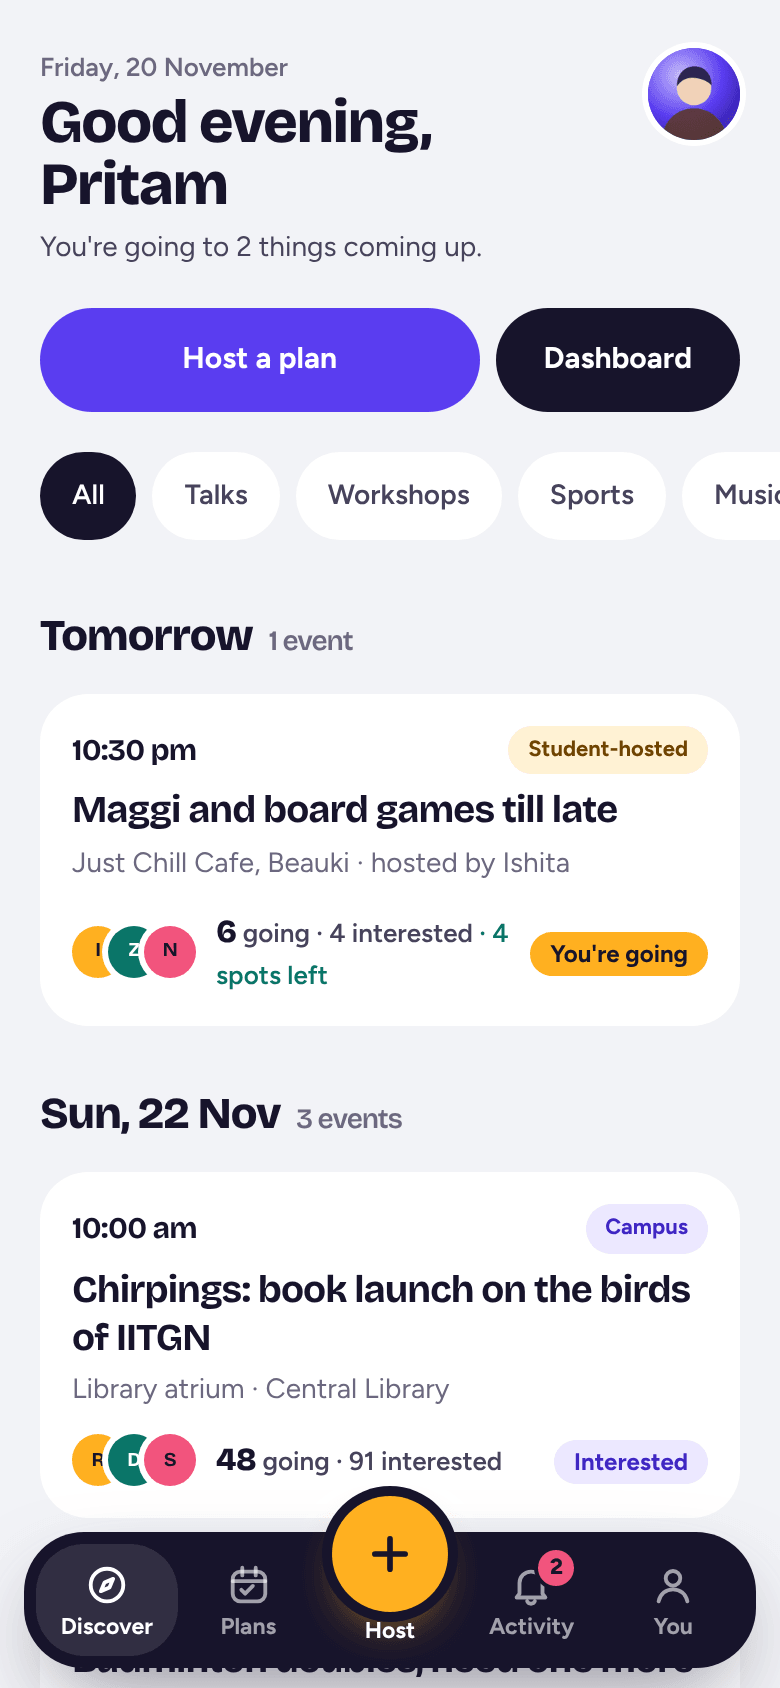
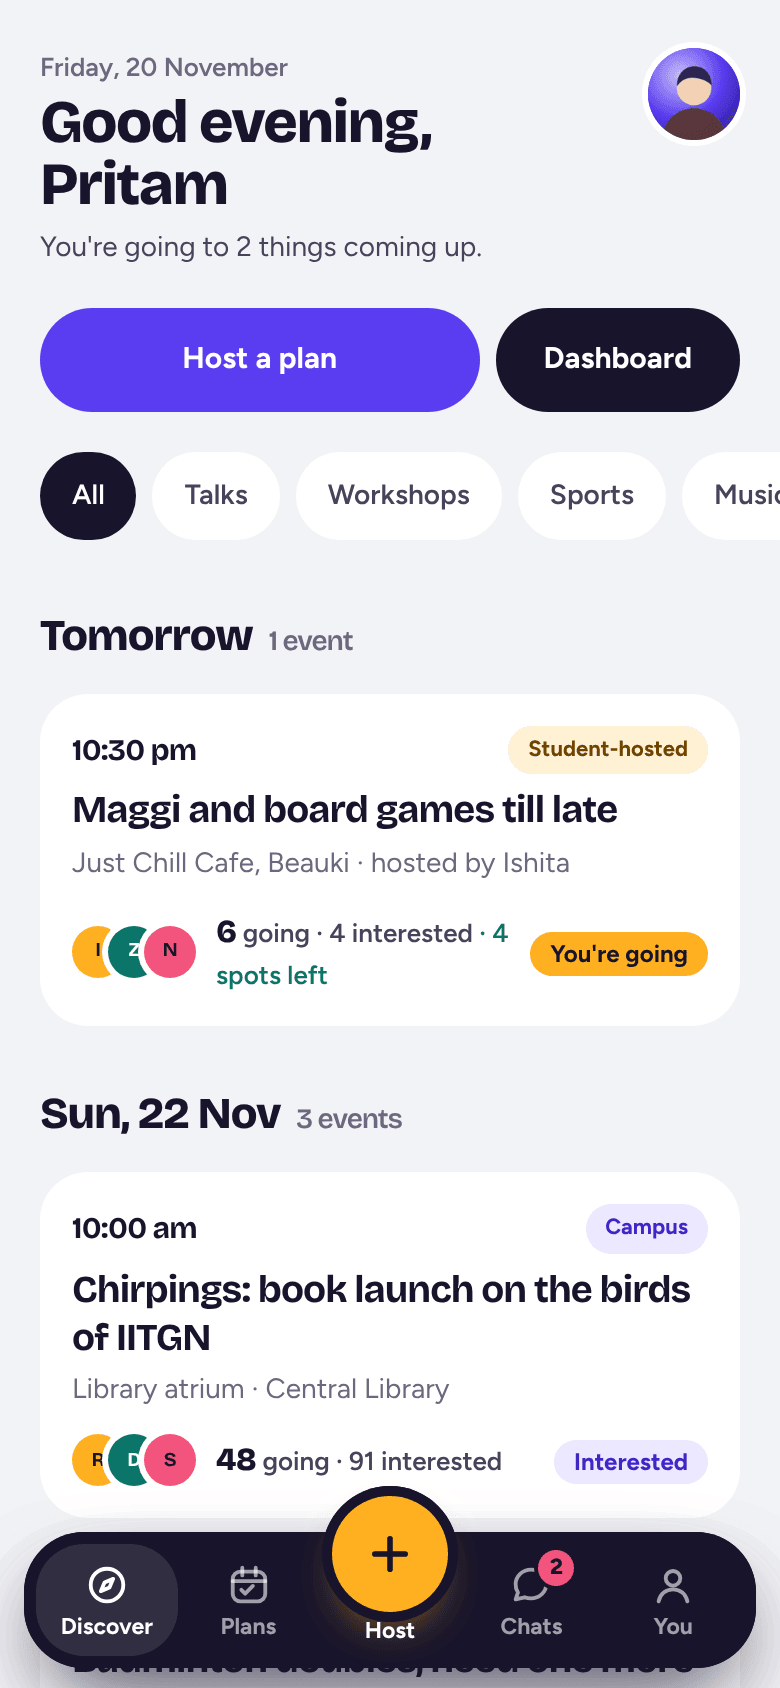
Fence the map to the campus outline and refresh the repo
- The map now follows IITGN's outline instead of a rectangle, leaving
  out Palaj village and the farmland across the road, and draws it.
- The map page highlights Discover in the tab bar.
- New screenshots of Chats, a chat, the live map on real campus streets
  and the Reports queue; the tab bar updated on the rest; new cover.
- README, architecture and security docs updated for speed, chat and the
  map; screenshots compressed to a third of the size.
- A bug report form for testers, with security problems sent privately.

Changed region(s): [[0.0615, 0.9242, 0.9538, 1.0], [0.0308, 0.955, 0.0615, 0.9858]]

diff --git a/tests/db/map.test.ts b/tests/db/map.test.ts
@@ -8,9 +8,11 @@ let ravi: string;
 let meera: string;
 let kabir: string;
 
-// Spots on campus (the Academic Block and the hostels) and off campus (Ahmedabad).
-const ACAD = [23.2135, 72.6858] as const;
-const HOSTEL = [23.2101, 72.6847] as const;
+// Spots on campus (the Academic Block and Duven hostel), in Palaj village
+// next to campus, and in Ahmedabad.
+const ACAD = [23.21456, 72.68571] as const;
+const HOSTEL = [23.21024, 72.6852] as const;
+const VILLAGE = [23.206, 72.68] as const;
 const CITY = [23.0225, 72.5714] as const;
 
 const run = <T = Record<string, unknown>>(who: string, sql: string, params: unknown[] = []) =>
@@ -41,6 +43,8 @@ describe("sharing your spot", () => {
   it("only works on campus", async () => {
     await expect(start(asha, CITY)).rejects.toThrow(/off_campus/);
     await expect(start(asha, [ACAD[0], 72.71])).rejects.toThrow(/off_campus/);
+    // Right next to campus, but outside its outline.
+    await expect(start(asha, VILLAGE)).rejects.toThrow(/off_campus/);
   });
 
   it("only for 15, 30, 60 or 120 minutes, to connections or everyone", async () => {

diff --git a/features/map/campus-map.tsx b/features/map/campus-map.tsx
@@ -64,7 +64,9 @@ export default function CampusMap({ bounds, me, people, selected, onSelect, rece
     L.control.attribution({ prefix: false, position: "topright" }).addAttribution("© OpenStreetMap").addTo(m);
     L.tileLayer(TILE_URL, { maxZoom: 19, detectRetina: true }).addTo(m);
     // The area where sharing works.
-    L.rectangle(area, { color: "#5A3DF0", weight: 1.5, dashArray: "6 6", fill: true, fillOpacity: 0.03, interactive: false }).addTo(m);
+    const outline = { color: "#5A3DF0", weight: 1.5, dashArray: "6 6", fill: true, fillOpacity: 0.03, interactive: false };
+    if (bounds.polygon && bounds.polygon.length >= 3) L.polygon(bounds.polygon, outline).addTo(m);
+    else L.rectangle(area, outline).addTo(m);
     m.on("click", () => onSelectRef.current(null));
     layer.current = L.layerGroup().addTo(m);
     meLayer.current = L.layerGroup().addTo(m);

diff --git a/app/(app)/map/page.tsx b/app/(app)/map/page.tsx
@@ -8,6 +8,9 @@ export default async function MapPage() {
   const { supabase, user } = await requireMember();
   const [{ data: bounds }, { data: sharing }] = await Promise.all([supabase.rpc("map_settings"), supabase.rpc("my_sharing")]);
   const b = bounds as Partial<Bounds> | null;
-  const valid = b && [b.south, b.north, b.west, b.east, b.center_lat, b.center_lng].every((n) => typeof n === "number");
+  const valid =
+    b &&
+    [b.south, b.north, b.west, b.east, b.center_lat, b.center_lng].every((n) => typeof n === "number") &&
+    (b.polygon === undefined || (Array.isArray(b.polygon) && b.polygon.every((p) => Array.isArray(p) && p.length === 2 && p.every((n) => typeof n === "number"))));
   return <MapScreen bounds={valid ? (b as Bounds) : null} initialSharing={(sharing as Sharing | null) ?? null} me={{ id: user.id }} />;
 }

diff --git a/features/map/types.ts b/features/map/types.ts
@@ -1,4 +1,13 @@
-export type Bounds = { south: number; north: number; west: number; east: number; center_lat: number; center_lng: number };
+export type Bounds = {
+  south: number;
+  north: number;
+  west: number;
+  east: number;
+  center_lat: number;
+  center_lng: number;
+  // The campus outline as [lat, lng] points, when set.
+  polygon?: [number, number][];
+};
 
 export type Sharing = { expires_at: string; visibility: "connections" | "campus"; precise: boolean; started_at: string };
 

diff --git a/components/bottom-nav.tsx b/components/bottom-nav.tsx
@@ -9,7 +9,7 @@ const TABS: Tab[] = [
   {
     href: "/discover",
     label: "Discover",
-    match: (p) => p.startsWith("/discover") || p.startsWith("/events"),
+    match: (p) => p.startsWith("/discover") || p.startsWith("/events") || p.startsWith("/map"),
     icon: <><circle cx="12" cy="12" r="8.5" /><path d="M15.2 8.8l-1.9 4.5-4.5 1.9 1.9-4.5z" /></>,
   },
   {

diff --git a/README.md b/README.md
@@ -16,7 +16,7 @@ Every event at IIT Gandhinagar, who's going, and an easy way to go together.
 
 [**Open the app**](https://knot-tau.vercel.app) · [Architecture](docs/ARCHITECTURE.md) · [Security model](docs/SECURITY.md) · [Email feed](docs/EMAIL_FEED.md) · [Engineering rules](docs/ENGINEERING.md)
 
-<img src="docs/hero.png" alt="KNOT on a phone: the event feed, a classmate's profile and the Activity tab" width="100%" />
+<img src="docs/hero.png" alt="KNOT on three phones: the event feed, the live campus map and a chat" width="100%" />
 
 </div>
 
@@ -64,14 +64,21 @@ KNOT turns that inbox into one live feed of what's on, shows how many people are
   </tr>
   <tr>
     <td align="center"><img src="docs/screenshots/plans.png" alt="My plans grouped by day" width="170" /><br /><sub>My plans</sub></td>
-    <td align="center"><img src="docs/screenshots/activity.png" alt="Activity with join requests to review" width="170" /><br /><sub>Activity</sub></td>
     <td align="center"><img src="docs/screenshots/profile.png" alt="A classmate's profile with photo, links and shared interests" width="170" /><br /><sub>Profile</sub></td>
+    <td align="center"><img src="docs/screenshots/chats.png" alt="Chats with a connection request and unread messages" width="170" /><br /><sub>Chats</sub></td>
+    <td align="center"><img src="docs/screenshots/chat.png" alt="A one-to-one chat" width="170" /><br /><sub>Chat</sub></td>
+    <td align="center"><img src="docs/screenshots/map.png" alt="Live campus map with classmates' photos and a wave" width="170" /><br /><sub>Who's around</sub></td>
+  </tr>
+  <tr>
     <td align="center"><img src="docs/screenshots/inbox.png" alt="Dashboard Inbox with a proposed venue change" width="170" /><br /><sub>Inbox</sub></td>
+    <td align="center"><img src="docs/screenshots/reports.png" alt="Reports queue showing a reported chat message" width="170" /><br /><sub>Reports</sub></td>
     <td align="center"><img src="docs/screenshots/dashboard.png" alt="Founder dashboard with a 30-day chart" width="170" /><br /><sub>Dashboard</sub></td>
+    <td></td>
+    <td></td>
   </tr>
 </table>
 
-<sub>Screens shown with sample data.</sub>
+<sub>Screens shown with sample data. Map © OpenStreetMap contributors.</sub>
 
 ## How it's built
 
@@ -80,12 +87,12 @@ flowchart LR
   subgraph Phone["Student's phone"]
     UI["Next.js pages<br/>(React Server Components)"]
   end
-  subgraph Vercel
-    MW["Middleware<br/>session refresh, CSP nonce"]
+  subgraph Vercel["Vercel (Mumbai)"]
+    MW["Middleware<br/>session check, CSP nonce"]
     SA["Server actions<br/>Zod validation"]
     IN["/api/ingest/email<br/>token-authenticated"]
   end
-  subgraph Supabase
+  subgraph Supabase["Supabase (Mumbai)"]
     AUTH["Auth<br/>college email sign-in"]
     FN["Database functions<br/>capacity, approvals, rate limits"]
     DB[("Postgres<br/>row-level security on every table")]
@@ -99,11 +106,13 @@ flowchart LR
   IN --> DB
   UI -. sign-in link .-> AUTH
   DB -. realtime .-> UI
+  UI -. map tiles .-> OSM["OpenStreetMap"]
 ```
 
 - **The database is the security boundary.** Every table has row-level security. Anything with rules that must hold (taking the last spot, letting someone in, admin changes) runs in a Postgres function in one transaction, with the row locked.
 - **Thin server layer.** Server actions validate input with Zod and act as the signed-in student. The service key is used only where a student can't act for themselves: the sign-up check, photo storage, account deletion and the email feed.
 - **Locked-down pages.** A fresh nonce-based Content Security Policy on every request, HSTS, frame blocking and a strict permissions policy. No third-party scripts.
+- **Fast on campus.** The server runs in Mumbai next to the database. Sign-ins are verified locally with the project's public signing key, each page checks the student once, buttons like Going change the moment they're tapped, and every screen has a loading placeholder.
 
 More in [docs/ARCHITECTURE.md](docs/ARCHITECTURE.md).
 
@@ -118,7 +127,7 @@ More in [docs/ARCHITECTURE.md](docs/ARCHITECTURE.md).
 - **Campus mail.** Mail that isn't about an event is discarded on arrival. Email addresses and phone numbers are removed before any mail reaches the AI, and kept text is erased after 30 days.
 - **Admins.** Every admin action is logged in an append-only audit log. The founder can't be suspended or demoted, and only the founder can change another admin.
 
-Every feature was reviewed against these rules by an independent security review before release, and each finding is covered by a test. Full details in [docs/SECURITY.md](docs/SECURITY.md); to report a problem, see [SECURITY.md](SECURITY.md).
+Each of these rules is enforced in the database and covered by a test. Full details in [docs/SECURITY.md](docs/SECURITY.md); to report a problem, see [SECURITY.md](SECURITY.md).
 
 ## Quality
 
@@ -137,6 +146,7 @@ CI runs lint, type checks, all tests, a dependency audit, a production build and
 - **App:** Next.js 15 (App Router, Server Components, Server Actions), React 19, TypeScript, Tailwind CSS 4
 - **Data:** Supabase (Postgres with row-level security, Auth, Storage, Realtime)
 - **AI:** Google Gemini API for reading campus mail, with the Anthropic API as a drop-in alternative
+- **Map:** Leaflet with OpenStreetMap tiles, loaded only on the map page
 - **Images:** sharp, for server-side re-encoding of profile photos
 - **Validation:** Zod
 - **Testing:** Vitest with PGlite for database tests, Playwright with axe-core for browser tests
@@ -147,7 +157,7 @@ CI runs lint, type checks, all tests, a dependency audit, a production build and
 
 ```
 app/
-  (app)/                Signed-in pages: discover, events, host, plans, activity, people, profile, admin
+  (app)/                Signed-in pages: discover, events, host, plans, chats, map, people, profile, admin
   api/ingest/email/     Endpoint the Gmail script posts campus mail to
   avatar/               Auth-checked profile photo route
   welcome/, onboarding/ Welcome tour and first-time profile setup
@@ -202,7 +212,7 @@ To connect campus mail, follow [docs/EMAIL_FEED.md](docs/EMAIL_FEED.md).
 - [x] College email sign-in and onboarding with an interactive tour
 - [x] Event feed, Going and Interested, hosted plans with join requests
 - [x] Founder dashboard with activity stats, moderation and an audit log
-- [x] Profiles with photos and links, My plans, Activity, five-tab navigation
+- [x] Profiles with photos and links, My plans, five-tab navigation
 - [x] Live campus email feed with AI reading and a review Inbox
 - [x] Connection requests and live one-to-one chat between connected students
 - [x] Block and report everywhere, with a Reports queue in the dashboard

diff --git a/docs/SECURITY.md b/docs/SECURITY.md
@@ -44,7 +44,7 @@ Admin rights stop at the institution boundary.
 - **Opt-in, for a set time.** Sharing lasts 15, 30, 60 or 120 minutes and can be stopped at once. Stopping deletes the spot.
 - **You see others only while you share.** Nobody can watch the map without being on it.
 - **Your choice of audience and precision.** Everyone at IITGN, or connections only; an exact spot, or a rough area rounded to about 100 metres inside the database.
-- **Campus only.** Positions outside the campus box (`institutions.map_bounds`) are refused, and leaving campus stops sharing. A college with no box set can't share at all.
+- **Campus only.** Positions outside the campus outline (`institutions.map_bounds.polygon`, which follows IITGN and leaves out Palaj village and the farmland across the road) are refused, and leaving campus stops sharing. A college with no outline or box set can't share at all.
 - **No history.** One current row per student, overwritten as they move (at most once every 10 seconds) and deleted when sharing ends or expires.
 - **Blocks and suspensions** hide people from each other on the map, both ways. Waves go only to people you can see, once per half hour, and are deleted after a day.
 - **Map tiles** come from OpenStreetMap. They show which part of campus a viewer is looking at, never where anyone is.
@@ -53,7 +53,7 @@ Admin rights stop at the institution boundary.
 
 - **Upload checks.** Uploads are checked by their first bytes, limited in size and pixel count, and processed one at a time.
 - **Re-encoding.** Every photo is re-encoded on the server, which removes metadata such as GPS location.
-- **Storage.** Photos are kept in a private bucket and served through an auth-checked route that checks access on every view. Removing a photo, blocking or suspending takes effect at once.
+- **Storage.** Photos are kept in a private bucket and served through a route that checks the viewer can see that profile. Phones reuse a photo for up to two minutes before checking again, so removing a photo, blocking or suspending takes effect within two minutes.
 - **Links.** GitHub, Instagram and LinkedIn are stored as usernames and always rebuilt as links to the official site, so a profile link can't point anywhere else.
 
 ## Campus email feed
@@ -72,7 +72,7 @@ See the Privacy and Safety sections of [EMAIL_FEED.md](EMAIL_FEED.md). In short:
 
 ## How changes are checked
 
-- **Security review.** Each feature had an independent security review before release, and each finding was fixed and covered by a test in `tests/db` or `tests/unit`.
+- **Security review.** Each feature is reviewed against these rules before release, and each rule is covered by a test in `tests/db` or `tests/unit`.
 - **CI.** Runs the full test suite and a dependency audit on every push.
 
 To report a security problem, see [../SECURITY.md](../SECURITY.md).

diff --git a/docs/ARCHITECTURE.md b/docs/ARCHITECTURE.md
@@ -20,9 +20,18 @@ sequenceDiagram
   S-->>P: HTML (React Server Components)
 ```
 
-1. **Middleware** (`middleware.ts`) sets a fresh Content Security Policy nonce on every request, refreshes the Supabase session cookie, and sends signed-out visitors to the landing page.
-2. **The app layout** (`app/(app)/layout.tsx`) requires a signed-in, active, onboarded student (`lib/auth.ts`), records the day as active for the dashboard, and counts requests waiting for the tab-bar badge.
+1. **Middleware** (`middleware.ts`) sets a fresh Content Security Policy nonce on every request, checks the session (verifying its token locally with the project's public signing key, refreshing it if it has expired) and sends signed-out visitors to the landing page.
+2. **The app layout** (`app/(app)/layout.tsx`) requires a signed-in, active, onboarded student (`lib/auth.ts`), records the day as active for the dashboard, and counts unread chats and requests for the tab-bar badge. The sign-in check and profile read happen once per request and are shared with the page.
 3. **Pages and server actions** use a Supabase client that acts as the signed-in student (`lib/supabase/server.ts`), so the database decides what they can read and write.
+
+## Speed
+
+- **One region.** The app's server functions run in Vercel's Mumbai region (`vercel.json`), next to the Supabase database, so each query is a few milliseconds instead of a round trip to another continent.
+- **No network call to check a sign-in.** Sessions are signed with an ECC key; the server verifies them locally.
+- **Fewer trips per page.** The layout and the page share one sign-in check and one profile read (`React.cache`), and independent queries run in parallel.
+- **Instant feedback.** Going and Interested switch the moment they're tapped and the server confirms in the background. Chat messages appear before they're delivered and retry safely.
+- **Loading placeholders.** Every screen shows its shape straight away while data loads. Profile photos are reused for two minutes before being checked again.
+- **Light pages.** The map library loads only on the map page.
 
 ## Where rules live
 
@@ -74,7 +83,7 @@ Messages are published too. An open chat adds new messages as they arrive, and s
 1. The phone crops the photo to a square and sends a JPEG.
 2. The server checks the file type from its first bytes, then re-encodes it to a 512 px WebP with `sharp`. This also removes metadata such as GPS location.
 3. The file goes to a private bucket under the student's own folder, and `set_avatar` records it.
-4. `/avatar/[id]/[file]` serves it only to signed-in students who can see that profile, checking access on every view.
+4. `/avatar/[id]/[file]` serves it only to signed-in students who can see that profile. Phones reuse a photo for two minutes, then check access again.
 
 ## Campus email feed
 
